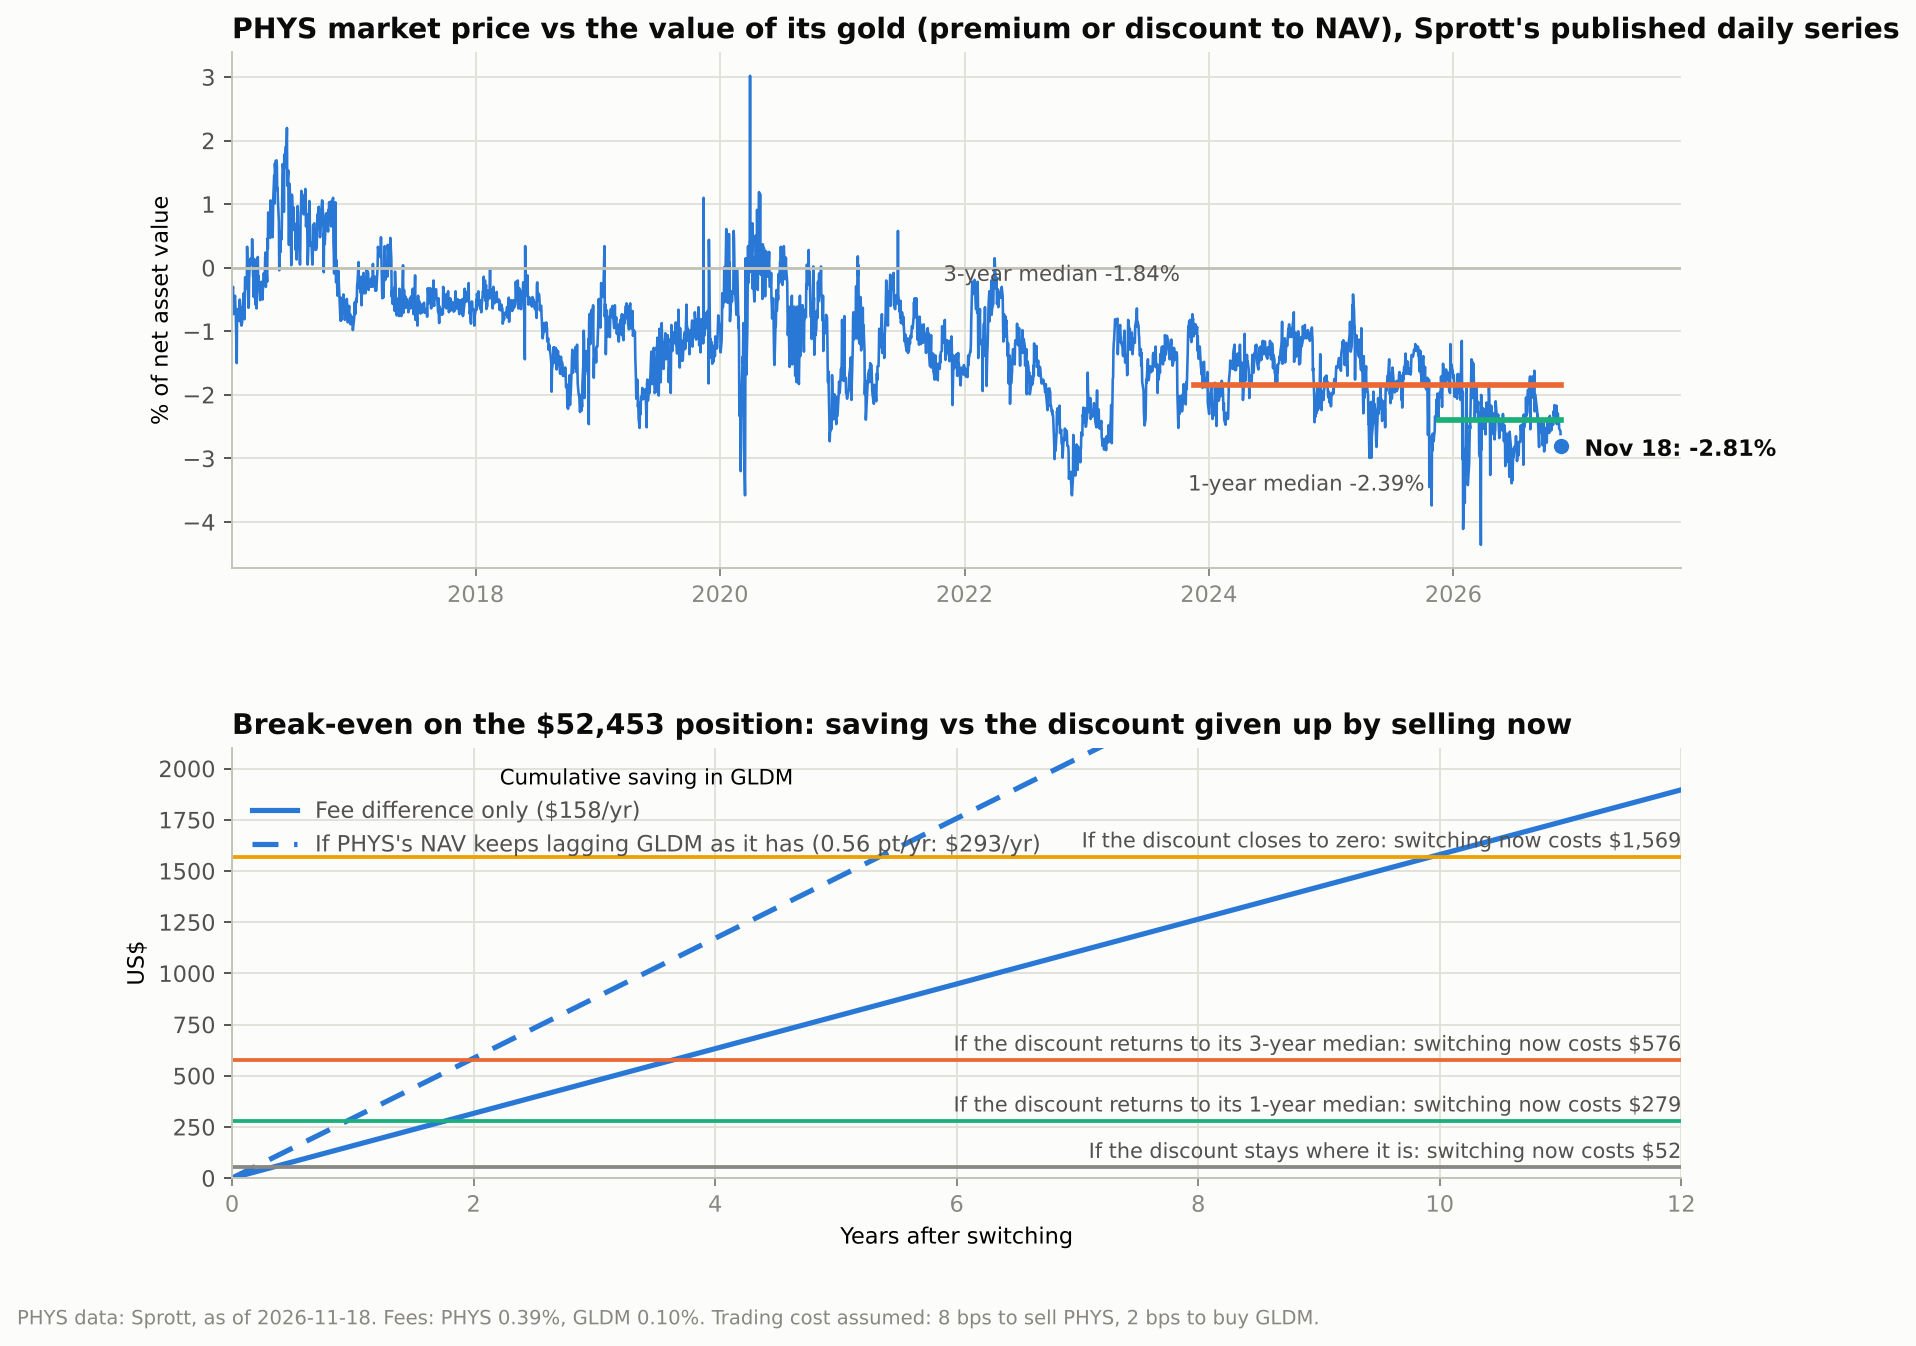
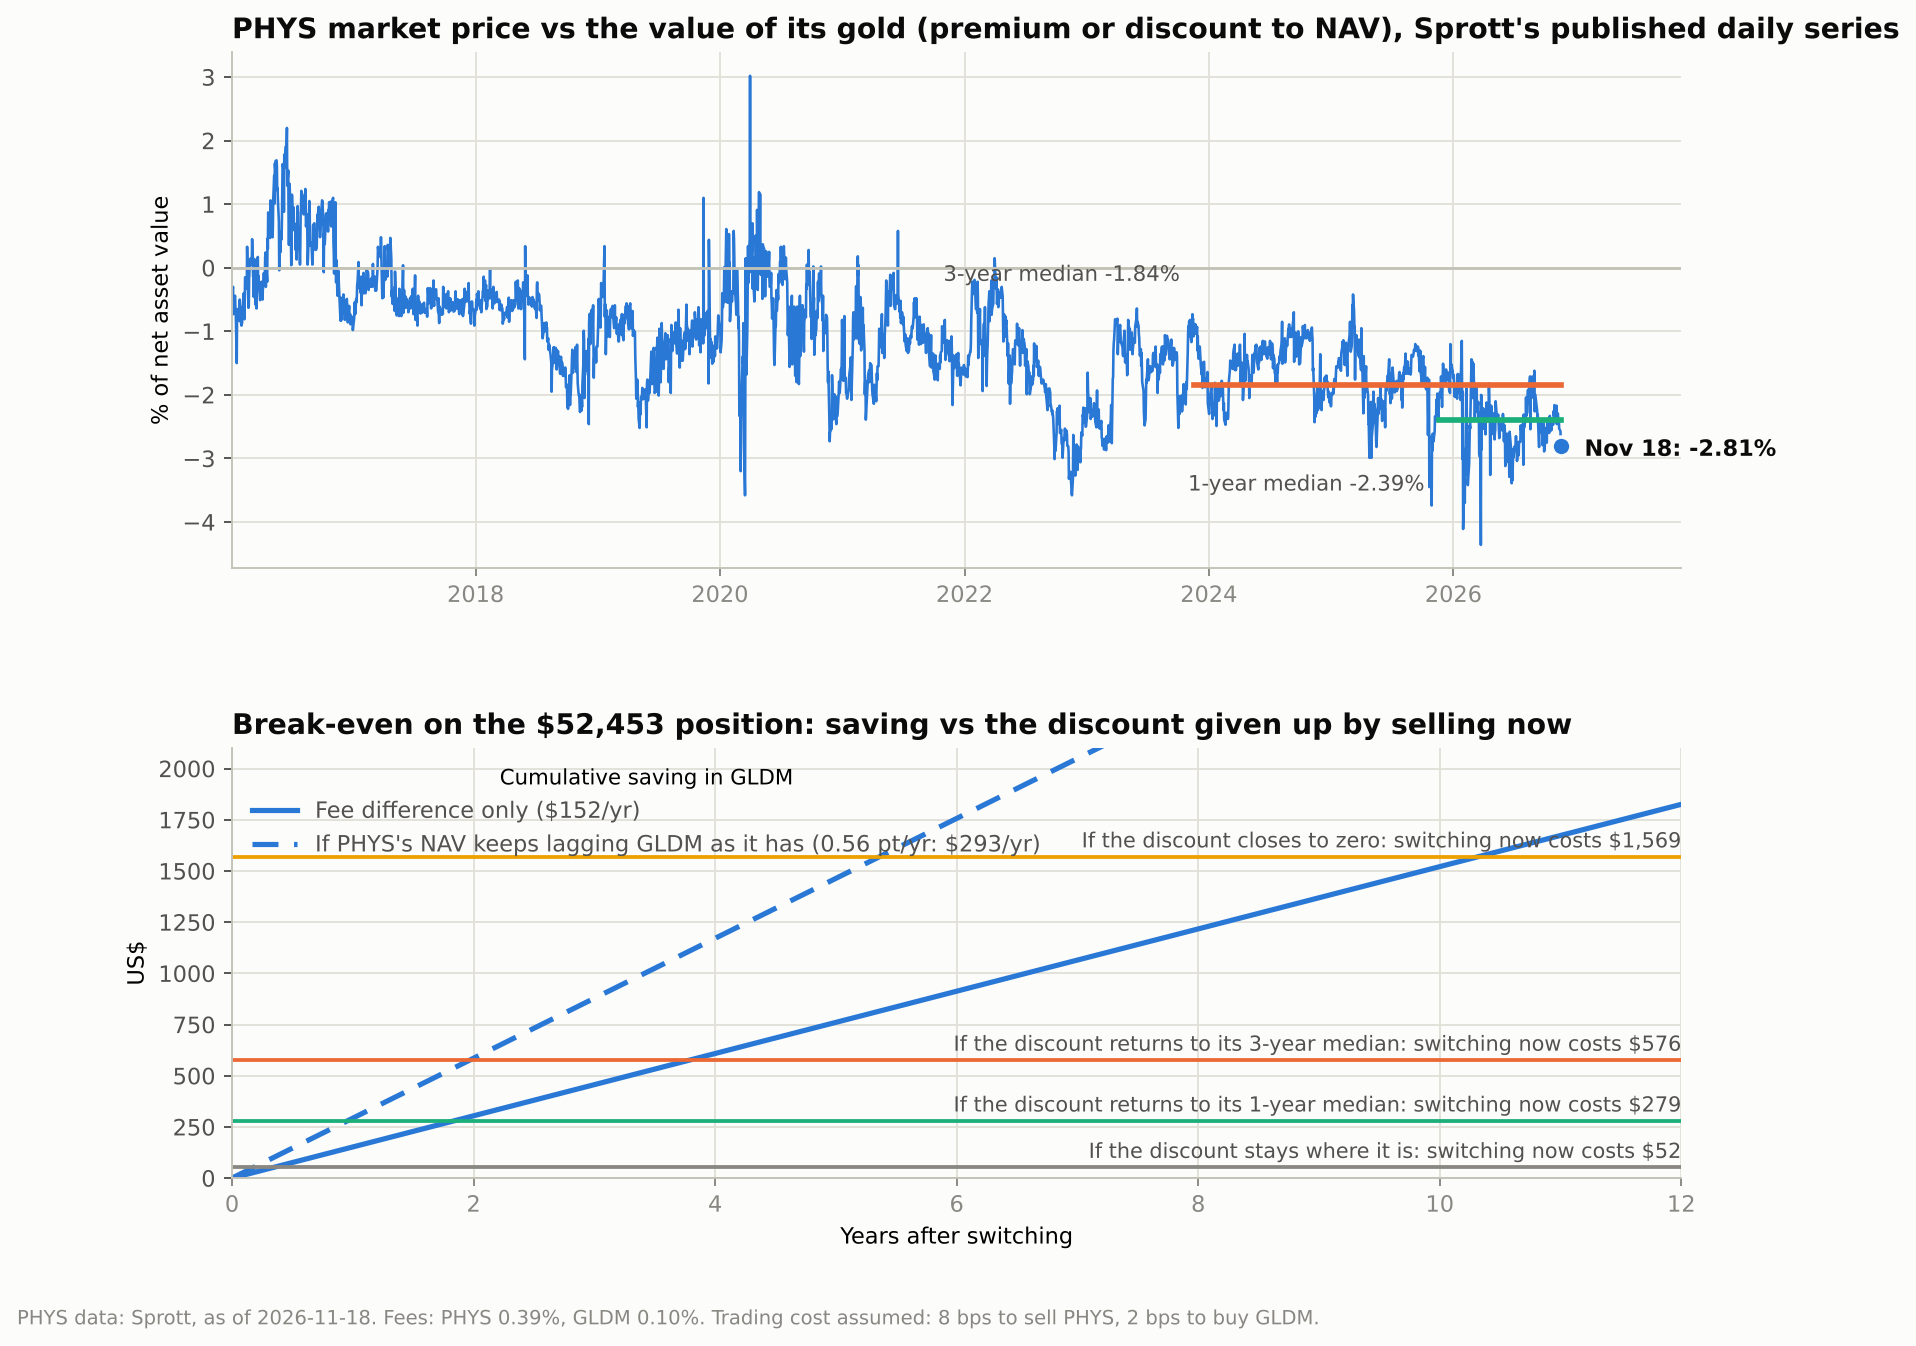
barbell-lab research: PHYS -> GLDM proposal final - re-check PASS WITH CORRECTIONS applied (fee basis, episode count, monitor section)
Claude-Session: https://claude.ai/code/session_01Ci2MoJQobYgATUS7mQT8tj

diff --git a/barbell-lab/research/b5_gold_wrapper_2026-11/discount.py b/barbell-lab/research/b5_gold_wrapper_2026-11/discount.py
@@ -72,7 +72,8 @@ while i < len(v):
     i += 1
 done = [e["days"] for e in ep if e["days"] is not None]
 out["episodes_wider_than_2p7"] = dict(n=len(ep), closed=len(done), median_days=float(np.median(done)), max_days=int(max(done)), open_now=[e for e in ep if e["days"] is None],
-                                      in_2026=sum(e["start"].startswith("2026") for e in ep))
+                                      in_2026_closed=sum(e["start"].startswith("2026") for e in ep if e["days"] is not None),
+                                      lasting_2_days_or_less=sum(1 for x in done if x <= 2))
 # NAV-level lag: PHYS NAV vs GLDM (which trades within a few bps of its NAV) over the same dates
 g = yahoo("GLDM"); gl = yahoo("GLD"); lag = {}
 for k, a in (("since GLDM launch", "2018-06-26"), ("5y", str((asof - pd.DateOffset(years=5)).date())), ("3y", str((asof - pd.DateOffset(years=3)).date())), ("1y", str((asof - pd.DateOffset(years=1)).date()))):
@@ -81,10 +82,13 @@ for k, a in (("since GLDM launch", "2018-06-26"), ("5y", str((asof - pd.DateOffs
     lag[k] = dict(start=str(x.index[0].date()), years=n, **{c: float(ann[c]) for c in x}, nav_gap=float(ann["gldm"] - ann["phys_nav"]), price_gap=float(ann["gldm"] - ann["phys_price"]),
                   discount_start=float(d.reindex(x.index).iloc[0]), discount_end=now)
 out["nav_level_lag"] = lag
+gm = pd.concat([d.diff(), gl.pct_change()], axis=1, keys=["dd", "gold"], sort=True).dropna().loc[asof - pd.DateOffset(years=3):]
+out["discount_change_on_big_gold_days_3y"] = dict(falls_over_2pct=dict(n=int((gm.gold < -.02).sum()), mean_change=float(gm.dd[gm.gold < -.02].mean())),
+                                                 rises_over_2pct=dict(n=int((gm.gold > .02).sum()), mean_change=float(gm.dd[gm.gold > .02].mean())))
 y1 = pd.concat([S["price"].pct_change(), g.pct_change()], axis=1, sort=True).dropna(); out["corr_daily_price_phys_gldm"] = dict(since_2018=float(y1.corr().iloc[0, 1]), last_year=float(y1.loc[asof - pd.DateOffset(years=1):].corr().iloc[0, 1]))
 
 val = SHARES * price; navval = SHARES * nav; trade = val * (COST_BPS["PHYS"] + COST_BPS["GLDM"]) / 1e4
-save_fee = navval * FEES["PHYS"] - val * FEES["GLDM"]                      # fees accrue on NAV; after the swap the position is the sale proceeds
+save_fee = val * (FEES["PHYS"] - FEES["GLDM"])                              # one basis (market value), i.e. at a constant discount
 gap_hist = float(np.median([lag[k]["nav_gap"] for k in lag])); save_hist = val * gap_hist
 econ = dict(shares=SHARES, market_value=val, nav_value=navval, discount_usd=navval - val, usd_per_point_of_discount=navval / 100, trading_cost=trade,
             unrealised_pnl=SHARES * (price - AVG_COST), ounces=SHARES * 3804356 / 492711798,                    # trust ounces / units outstanding, Sprott page

diff --git a/barbell-lab/research/b5_gold_wrapper_2026-11/PROPOSAL.md b/barbell-lab/research/b5_gold_wrapper_2026-11/PROPOSAL.md
@@ -1,6 +1,6 @@
 # Proposal: hold B.5's gold as GLDM instead of PHYS (2026-11-19, revision 2)
 
-STATUS: PROPOSAL. Nothing has been traded or changed. Needs Casey's go-ahead on an option and answers to the two
+STATUS: PROPOSAL (verified). Nothing has been traded or changed. Needs Casey's go-ahead on an option and answers to the two
 questions at the end. Origin: by-product of the B.5 structure study (b5_structure_2026-11, "gold wrapper").
 Revision 2 replaces a first draft that an independent check FAILED (see "Verification" below).
 
@@ -11,20 +11,20 @@ unusually wide (Option A).
 | | Option A (recommended) | Option B | Option C |
 |---|---|---|---|
 | Rule | Switch on the first normal day PHYS's intraday discount is about -2.4% or narrower (its 1-year median). If that has not happened by the 2027-02-26 month-end check, re-decide. | Switch now. | Keep PHYS. |
-| Yearly gain | $158 from fees; about $290 if PHYS keeps lagging as it has | same | none |
+| Yearly gain | $152 from fees; about $290 if PHYS keeps lagging as it has | same | none |
 | Versus selling at today's -2.8% | about $225 better if sold at -2.4% | - | - |
-| Cost of waiting | $13-24 per month | none | $158-290 per year |
+| Cost of waiting | $13-24 per month | none | $152-290 per year |
 | Main risk | the discount widens further while waiting | sells at a wider-than-usual discount | the lag continues |
 
 ## Facts (discount.json; PHYS figures are Sprott's own published daily series, as of 2026-11-18)
 - Position: 1,872 PHYS on IBKR ...3321 (read 2026-11-18) = $52,453 at the $28.02 close; the gold behind it
   is worth $53,970 (NAV $28.83), about 14.5 oz. Unrealised loss about -$9,900.
-- Fees: PHYS 0.39%, GLDM 0.10%. Fee saving $158/yr, about 0.07 pt/yr on the book. IAUM is 0.09% (about $5/yr
+- Fees: PHYS 0.39%, GLDM 0.10%. Fee saving $152/yr, about 0.07 pt/yr on the book. IAUM is 0.09% (about $5/yr
   less) with a quarter of the assets: not worth it.
 - PHYS's NAV has lagged GLDM by MORE than the fee gap: 0.57 pt/yr since GLDM launched (2018-06, 8.4 years),
-  0.54 over 5 years, 0.72 over 3, 0.36 over 1. Sprott's own table shows its NAV behind spot gold by 0.5-0.8 pt/yr
-  over 1 to 15 years against a 0.39% fee. The cause of the extra lag is not identified. If it persists, the
-  saving is about $290/yr, not $158.
+  0.54 over 5 years, 0.72 over 3, 0.36 over 1 (about 0.4-0.7; the shorter windows move with the start date).
+  Sprott's own table shows its NAV behind spot gold by 0.5-0.8 pt/yr over 1 to 15 years against a 0.39% fee.
+  The cause of the extra lag is not identified. If it persists, the saving is about $290/yr, not $152.
 - Discount to NAV: -2.81% on 2026-11-18. Last year: median -2.39%, range -1.15% to -4.36%, wider than today on
   about one day in six. Last three years: median -1.84%, wider than today on 7% of days. Yearly medians:
   2021 -1.2%, 2022 -1.6%, 2023 -1.5%, 2024 -1.5%, 2025 -1.7%, 2026 -2.4%: roughly flat for five years, then a
@@ -38,15 +38,16 @@ unusually wide (Option A).
 Selling today realises a price $1,516 below the gold PHYS holds ($540 per point of discount). That is only a
 cost if the discount would have narrowed while you held it. Break-even, including about $52 of trading costs:
 
-| if the discount... | switching now costs | break-even at $158/yr | at $290/yr |
+| if the discount... | switching now costs | break-even at $152/yr | at $290/yr |
 |---|---|---|---|
 | stays at -2.8% | $52 | 0.3 yrs | 0.2 yrs |
 | returns to -2.4% (1-year median) | $279 | 1.8 yrs | 1.0 yrs |
-| returns to -1.8% (3-year median) | $576 | 3.6 yrs | 2.0 yrs |
-| closes to zero | $1,569 | 9.9 yrs | 5.4 yrs |
+| returns to -1.8% (3-year median) | $576 | 3.8 yrs | 2.0 yrs |
+| closes to zero | $1,569 | 10.3 yrs | 5.4 yrs |
 
 Why the patience rule: all 21 earlier times the discount closed at -2.7% or wider, it was back to -2.4% within
-44 trading days (median 4). In-sample, and 11 of the 21 were in 2026, so treat it as "usually", not "always".
+44 trading days (median 4). In-sample, 10 of the 21 were in 2026, 8 lasted two days or less, and the evidence is
+on published closes while the trigger is the intraday figure: treat it as "usually", not "always".
 The threshold is a round number near the 1-year median, not a precise level: the whole rule is worth about $225.
 
 ## Execution (Casey enters the orders; nothing is automated)
@@ -54,8 +55,8 @@ The threshold is a round number near the 1-year median, not a precise level: the
    -2.4% or narrower. (The published previous-close figure is too noisy to trigger on.)
 2. Same session, 10:30-15:30 New York time, both legs within a few minutes: SELL 1,872 PHYS at a limit near
    the mid; BUY GLDM with the proceeds (about 712 shares at 2026-11-18 prices) at a limit near the mid.
-3. Do not trade on a day gold has moved more than 2% (the discount widened 0.2 pt on average on such days;
-   2026-11-18 itself was one) or if GLDM's quoted spread is wider than 3 bps.
+3. Do not trade on a day gold has fallen more than 2% (the discount widened 0.2 pt on average on the 43 such
+   days of the last three years; 2026-11-18 itself was one) or if GLDM's quoted spread is wider than 3 bps.
 4. If a month-end band rebalance falls due first, do the swap in the same session so the gold leg trades once.
 5. Same day, after the fills: the repo change set below, so the nightly monitor does not error.
 
@@ -77,9 +78,12 @@ The threshold is a round number near the 1-year median, not a precise level: the
 config/portfolio.yaml still holds the v1.0 targets (PHYS 18, QUAL 9, AVDV 19, AVUV 25, AVEM 10, TAIL 5). The live
 book is v1.2 without CAOS (PHYS 23.5, QUAL 15.3, AVDV 11.8, AVUV 23.5, AVEM 5.9, TAIL 5.9), and
 monitor/rebalance.py takes its targets from that file. Against those targets the live book is permanently
-"out of band" (QUAL +70%, PHYS +31%, AVDV -38%), so any band alert it raises is false, and a real breach
-would be masked. Not verified: whether a positions snapshot is currently being fed to the monitor in production.
-Fixing it is a config change to a live service, so it waits for your go-ahead; it can ride in the same commit.
+"out of band" (QUAL +70%, AVEM -41%, AVDV -38%, PHYS +31%), so any band alert it raises is false, a real
+breach would be masked, and the trade list it prints points back to the v1.0 weights. It is probably dormant:
+the repo has no data/positions.json, the monitor prints SKIPPED without one, and alerting is log-only. Not
+verified in production. Two ways to fix, both waiting for your go-ahead: update portfolio.yaml to the live
+weights (this also changes what the backtest, book, evaluation, optimizer and tearsheet commands report), or
+point the monitor at the register's LIVE version (smaller change, monitor only).
 
 ## Kill and review criteria (fixed before any trade)
 - No shadow run: the exposure is identical, so a paper run could show nothing.
@@ -90,7 +94,7 @@ Fixing it is a config change to a live service, so it waits for your go-ahead; i
 
 ## Caveats
 - The break-even table values the discount against NAV; nobody knows where the discount goes next.
-- The $290/yr figure assumes an unexplained historical lag continues. $158/yr is the part that is certain.
+- The $290/yr figure assumes an unexplained historical lag continues. $152/yr is the part that is certain.
 - Tax: under Act 60 no tax is assumed, and the lot shows a loss. Not tax advice. PHYS is a PFIC whose usual US
   advantage (long-term rates through a QEF election, instead of the 28% collectibles rate) is what is given up.
 - Custody differs: PHYS's bars are at the Royal Canadian Mint and holders of a whole bar's worth can redeem
@@ -101,8 +105,9 @@ Fixing it is a config change to a live service, so it waits for your go-ahead; i
 An independent counter-agent FAILED revision 1: its discount history was reconstructed from the PHYS/GLD price
 ratio and was wrong (Sprott publishes the real daily series); it claimed the discount had widened every year
 since 2021 (false); it mis-attributed the return gap; and it said config/portfolio.yaml was only a seed (false).
-Revision 2 is rebuilt on Sprott's published series and adopts every correction. Confirmed unchanged by the
-check: the 2026-11-18 NAV, close, discount and fee; GLDM's and IAUM's fees; position size; share count.
+Revision 2 is rebuilt on Sprott's published series and adopts every correction. The same counter-agent
+re-checked it: PASS WITH CORRECTIONS (three numbers and the monitor section; all applied here). It extracted
+Sprott's series independently (4,254 rows, identical) and reproduced every other figure.
 
 ## Questions for Casey
 1. Why was PHYS chosen originally: tax treatment, or custody / redeemability? If custody, the fee and lag are
